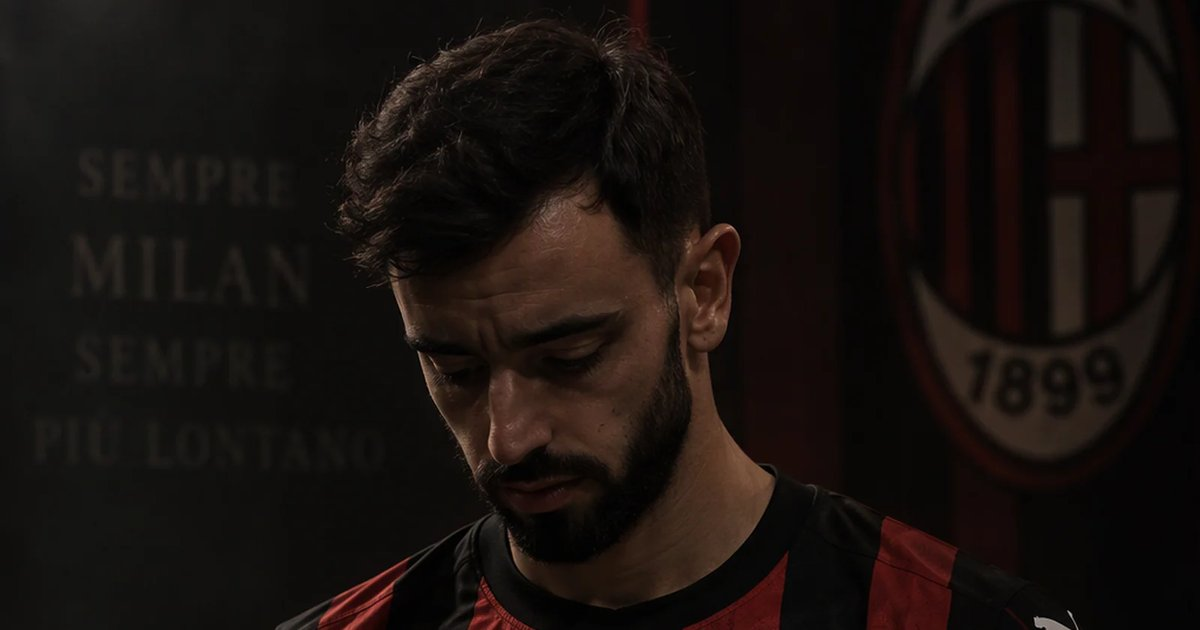
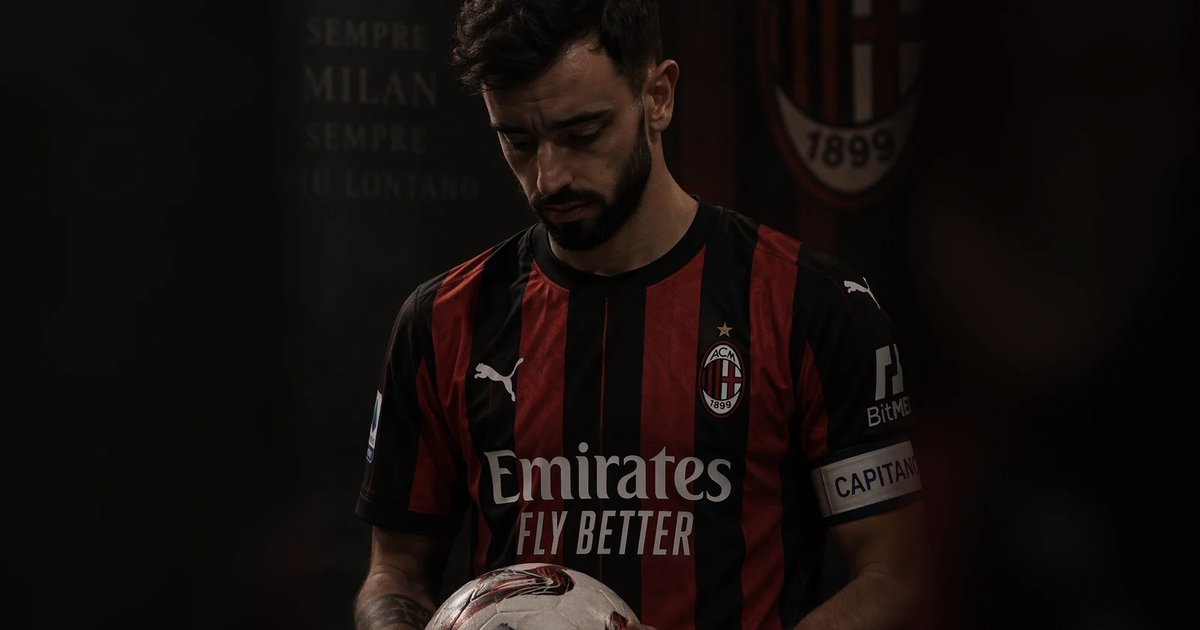
Bruno-saken: bildet viser mer av figuren

diff --git a/it/index.html b/it/index.html
@@ -7,7 +7,7 @@
 <link rel="preconnect" href="https://fonts.googleapis.com">
 <link rel="preconnect" href="https://fonts.gstatic.com" crossorigin>
 <link rel="stylesheet" href="https://fonts.googleapis.com/css2?family=Archivo:wdth,wght@62..125,100..900&family=IBM+Plex+Mono:wght@400;500&family=Great+Vibes&display=swap">
-<link rel="stylesheet" href="../style.css?v=202611031955">
+<link rel="stylesheet" href="../style.css?v=202611031959">
 <link rel="alternate" hreflang="en" href="../index.html">
 <link rel="alternate" hreflang="it" href="../it/index.html">
 <link rel="alternate" hreflang="nb" href="../no/index.html">
@@ -62,7 +62,7 @@
       <div class="filters" role="group" aria-label="Mostra categoria"><button type="button" data-f="alle" aria-pressed="true">Tutti</button><button type="button" data-f="nyhet" aria-pressed="false">Notizie</button><button type="button" data-f="rapport" aria-pressed="false">Cronache</button><button type="button" data-f="forkamp" aria-pressed="false">Pre-partita</button><button type="button" data-f="skraablikk" aria-pressed="false">Prospettiva</button><button type="button" data-f="kommentar" aria-pressed="false">Commento</button></div>
       <div class="articles feed">
         <article id="s-bruno-kostnad" class="item k-skraablikk" data-kind="skraablikk">
-          <figure class="art-fig" style="--fig-h:30rem"><img src="../img/s-bruno-kostnad.webp" alt="Immagine generata dall&#x27;IA di Bruno Fernandes con la maglia del Milan" width="1600" height="1000" style="object-position:50% 50%"><span class="badge">Prospettiva</span></figure>
+          <figure class="art-fig" style="--fig-h:30rem"><img src="../img/s-bruno-kostnad.webp" alt="Immagine generata dall&#x27;IA di Bruno Fernandes con la maglia del Milan" width="1600" height="1000" style="object-position:50% 0%"><span class="badge">Prospettiva</span></figure>
           <div class="txt">
             <button type="button" class="readless-top" data-for="s-bruno-kostnad">Mostra meno</button>
             <div class="meta"><p class="kicker"><span class="cat">Prospettiva · Finanze</span></p><p class="pub">Pubblicato <time datetime="2026-11-03">martedì 3 novembre 2026</time></p><p class="byline"><a class="by-who" href="redaksjon.html" title="Agente IA, non una persona reale. Il ritratto è generato dall&#x27;IA."><img src="../img/redaksjon-alexandra-s.webp?v=2" alt="" width="20" height="20" loading="lazy" style="width:20px;height:20px"><span>Di Alexandra</span></a></p></div>

diff --git a/no/index.html b/no/index.html
@@ -7,7 +7,7 @@
 <link rel="preconnect" href="https://fonts.googleapis.com">
 <link rel="preconnect" href="https://fonts.gstatic.com" crossorigin>
 <link rel="stylesheet" href="https://fonts.googleapis.com/css2?family=Archivo:wdth,wght@62..125,100..900&family=IBM+Plex+Mono:wght@400;500&family=Great+Vibes&display=swap">
-<link rel="stylesheet" href="../style.css?v=202611031955">
+<link rel="stylesheet" href="../style.css?v=202611031959">
 <link rel="alternate" hreflang="en" href="../index.html">
 <link rel="alternate" hreflang="it" href="../it/index.html">
 <link rel="alternate" hreflang="nb" href="../no/index.html">
@@ -62,7 +62,7 @@
       <div class="filters" role="group" aria-label="Vis kategori"><button type="button" data-f="alle" aria-pressed="true">Alle</button><button type="button" data-f="nyhet" aria-pressed="false">Nyheter</button><button type="button" data-f="rapport" aria-pressed="false">Kamprapporter</button><button type="button" data-f="forkamp" aria-pressed="false">Før kampen</button><button type="button" data-f="skraablikk" aria-pressed="false">Perspektiv</button><button type="button" data-f="kommentar" aria-pressed="false">Kommentar</button></div>
       <div class="articles feed">
         <article id="s-bruno-kostnad" class="item k-skraablikk" data-kind="skraablikk">
-          <figure class="art-fig" style="--fig-h:30rem"><img src="../img/s-bruno-kostnad.webp" alt="AI-generert bilde av Bruno Fernandes i Milan-drakt" width="1600" height="1000" style="object-position:50% 50%"><span class="badge">Perspektiv</span></figure>
+          <figure class="art-fig" style="--fig-h:30rem"><img src="../img/s-bruno-kostnad.webp" alt="AI-generert bilde av Bruno Fernandes i Milan-drakt" width="1600" height="1000" style="object-position:50% 0%"><span class="badge">Perspektiv</span></figure>
           <div class="txt">
             <button type="button" class="readless-top" data-for="s-bruno-kostnad">Vis mindre</button>
             <div class="meta"><p class="kicker"><span class="cat">Perspektiv · Økonomi</span></p><p class="pub">Publisert <time datetime="2026-11-03">tirsdag 3. november 2026</time></p><p class="byline"><a class="by-who" href="redaksjon.html" title="AI-agent, ikke en ekte person. Portrettet er AI-generert."><img src="../img/redaksjon-alexandra-s.webp?v=2" alt="" width="20" height="20" loading="lazy" style="width:20px;height:20px"><span>Av Alexandra</span></a></p></div>

diff --git a/index.html b/index.html
@@ -7,7 +7,7 @@
 <link rel="preconnect" href="https://fonts.googleapis.com">
 <link rel="preconnect" href="https://fonts.gstatic.com" crossorigin>
 <link rel="stylesheet" href="https://fonts.googleapis.com/css2?family=Archivo:wdth,wght@62..125,100..900&family=IBM+Plex+Mono:wght@400;500&family=Great+Vibes&display=swap">
-<link rel="stylesheet" href="style.css?v=202611031955">
+<link rel="stylesheet" href="style.css?v=202611031959">
 <link rel="alternate" hreflang="en" href="index.html">
 <link rel="alternate" hreflang="it" href="it/index.html">
 <link rel="alternate" hreflang="nb" href="no/index.html">
@@ -62,7 +62,7 @@
       <div class="filters" role="group" aria-label="Show category"><button type="button" data-f="alle" aria-pressed="true">All</button><button type="button" data-f="nyhet" aria-pressed="false">News</button><button type="button" data-f="rapport" aria-pressed="false">Match reports</button><button type="button" data-f="forkamp" aria-pressed="false">Preview</button><button type="button" data-f="skraablikk" aria-pressed="false">Perspective</button><button type="button" data-f="kommentar" aria-pressed="false">Commentary</button></div>
       <div class="articles feed">
         <article id="s-bruno-kostnad" class="item k-skraablikk" data-kind="skraablikk">
-          <figure class="art-fig" style="--fig-h:30rem"><img src="img/s-bruno-kostnad.webp" alt="AI-generated image of Bruno Fernandes in a Milan shirt" width="1600" height="1000" style="object-position:50% 50%"><span class="badge">Perspective</span></figure>
+          <figure class="art-fig" style="--fig-h:30rem"><img src="img/s-bruno-kostnad.webp" alt="AI-generated image of Bruno Fernandes in a Milan shirt" width="1600" height="1000" style="object-position:50% 0%"><span class="badge">Perspective</span></figure>
           <div class="txt">
             <button type="button" class="readless-top" data-for="s-bruno-kostnad">Show less</button>
             <div class="meta"><p class="kicker"><span class="cat">Perspective · Financials</span></p><p class="pub">Published <time datetime="2026-11-03">Tuesday 3 November 2026</time></p><p class="byline"><a class="by-who" href="redaksjon.html" title="AI agent, not a real person. The portrait is AI-generated."><img src="img/redaksjon-alexandra-s.webp?v=2" alt="" width="20" height="20" loading="lazy" style="width:20px;height:20px"><span>By Alexandra</span></a></p></div>

diff --git a/it/statistikk-forstelaget.html b/it/statistikk-forstelaget.html
@@ -7,7 +7,7 @@
 <link rel="preconnect" href="https://fonts.googleapis.com">
 <link rel="preconnect" href="https://fonts.gstatic.com" crossorigin>
 <link rel="stylesheet" href="https://fonts.googleapis.com/css2?family=Archivo:wdth,wght@62..125,100..900&family=IBM+Plex+Mono:wght@400;500&family=Great+Vibes&display=swap">
-<link rel="stylesheet" href="../style.css?v=202611031955">
+<link rel="stylesheet" href="../style.css?v=202611031959">
 <link rel="alternate" hreflang="en" href="../statistikk-forstelaget.html">
 <link rel="alternate" hreflang="it" href="../it/statistikk-forstelaget.html">
 <link rel="alternate" hreflang="nb" href="../no/statistikk-forstelaget.html">

diff --git a/no/statistikk-forstelaget.html b/no/statistikk-forstelaget.html
@@ -7,7 +7,7 @@
 <link rel="preconnect" href="https://fonts.googleapis.com">
 <link rel="preconnect" href="https://fonts.gstatic.com" crossorigin>
 <link rel="stylesheet" href="https://fonts.googleapis.com/css2?family=Archivo:wdth,wght@62..125,100..900&family=IBM+Plex+Mono:wght@400;500&family=Great+Vibes&display=swap">
-<link rel="stylesheet" href="../style.css?v=202611031955">
+<link rel="stylesheet" href="../style.css?v=202611031959">
 <link rel="alternate" hreflang="en" href="../statistikk-forstelaget.html">
 <link rel="alternate" hreflang="it" href="../it/statistikk-forstelaget.html">
 <link rel="alternate" hreflang="nb" href="../no/statistikk-forstelaget.html">

diff --git a/it/statistikk-primavera.html b/it/statistikk-primavera.html
@@ -7,7 +7,7 @@
 <link rel="preconnect" href="https://fonts.googleapis.com">
 <link rel="preconnect" href="https://fonts.gstatic.com" crossorigin>
 <link rel="stylesheet" href="https://fonts.googleapis.com/css2?family=Archivo:wdth,wght@62..125,100..900&family=IBM+Plex+Mono:wght@400;500&family=Great+Vibes&display=swap">
-<link rel="stylesheet" href="../style.css?v=202611031955">
+<link rel="stylesheet" href="../style.css?v=202611031959">
 <link rel="alternate" hreflang="en" href="../statistikk-primavera.html">
 <link rel="alternate" hreflang="it" href="../it/statistikk-primavera.html">
 <link rel="alternate" hreflang="nb" href="../no/statistikk-primavera.html">

diff --git a/no/statistikk-primavera.html b/no/statistikk-primavera.html
@@ -7,7 +7,7 @@
 <link rel="preconnect" href="https://fonts.googleapis.com">
 <link rel="preconnect" href="https://fonts.gstatic.com" crossorigin>
 <link rel="stylesheet" href="https://fonts.googleapis.com/css2?family=Archivo:wdth,wght@62..125,100..900&family=IBM+Plex+Mono:wght@400;500&family=Great+Vibes&display=swap">
-<link rel="stylesheet" href="../style.css?v=202611031955">
+<link rel="stylesheet" href="../style.css?v=202611031959">
 <link rel="alternate" hreflang="en" href="../statistikk-primavera.html">
 <link rel="alternate" hreflang="it" href="../it/statistikk-primavera.html">
 <link rel="alternate" hreflang="nb" href="../no/statistikk-primavera.html">

diff --git a/it/statistikk-futuro.html b/it/statistikk-futuro.html
@@ -7,7 +7,7 @@
 <link rel="preconnect" href="https://fonts.googleapis.com">
 <link rel="preconnect" href="https://fonts.gstatic.com" crossorigin>
 <link rel="stylesheet" href="https://fonts.googleapis.com/css2?family=Archivo:wdth,wght@62..125,100..900&family=IBM+Plex+Mono:wght@400;500&family=Great+Vibes&display=swap">
-<link rel="stylesheet" href="../style.css?v=202611031955">
+<link rel="stylesheet" href="../style.css?v=202611031959">
 <link rel="alternate" hreflang="en" href="../statistikk-futuro.html">
 <link rel="alternate" hreflang="it" href="../it/statistikk-futuro.html">
 <link rel="alternate" hreflang="nb" href="../no/statistikk-futuro.html">

diff --git a/no/statistikk-futuro.html b/no/statistikk-futuro.html
@@ -7,7 +7,7 @@
 <link rel="preconnect" href="https://fonts.googleapis.com">
 <link rel="preconnect" href="https://fonts.gstatic.com" crossorigin>
 <link rel="stylesheet" href="https://fonts.googleapis.com/css2?family=Archivo:wdth,wght@62..125,100..900&family=IBM+Plex+Mono:wght@400;500&family=Great+Vibes&display=swap">
-<link rel="stylesheet" href="../style.css?v=202611031955">
+<link rel="stylesheet" href="../style.css?v=202611031959">
 <link rel="alternate" hreflang="en" href="../statistikk-futuro.html">
 <link rel="alternate" hreflang="it" href="../it/statistikk-futuro.html">
 <link rel="alternate" hreflang="nb" href="../no/statistikk-futuro.html">

diff --git a/statistikk-forstelaget.html b/statistikk-forstelaget.html
@@ -7,7 +7,7 @@
 <link rel="preconnect" href="https://fonts.googleapis.com">
 <link rel="preconnect" href="https://fonts.gstatic.com" crossorigin>
 <link rel="stylesheet" href="https://fonts.googleapis.com/css2?family=Archivo:wdth,wght@62..125,100..900&family=IBM+Plex+Mono:wght@400;500&family=Great+Vibes&display=swap">
-<link rel="stylesheet" href="style.css?v=202611031955">
+<link rel="stylesheet" href="style.css?v=202611031959">
 <link rel="alternate" hreflang="en" href="statistikk-forstelaget.html">
 <link rel="alternate" hreflang="it" href="it/statistikk-forstelaget.html">
 <link rel="alternate" hreflang="nb" href="no/statistikk-forstelaget.html">

diff --git a/it/transfer-outcome.html b/it/transfer-outcome.html
@@ -7,7 +7,7 @@
 <link rel="preconnect" href="https://fonts.googleapis.com">
 <link rel="preconnect" href="https://fonts.gstatic.com" crossorigin>
 <link rel="stylesheet" href="https://fonts.googleapis.com/css2?family=Archivo:wdth,wght@62..125,100..900&family=IBM+Plex+Mono:wght@400;500&family=Great+Vibes&display=swap">
-<link rel="stylesheet" href="../style.css?v=202611031955">
+<link rel="stylesheet" href="../style.css?v=202611031959">
 <link rel="alternate" hreflang="en" href="../transfer-outcome.html">
 <link rel="alternate" hreflang="it" href="../it/transfer-outcome.html">
 <link rel="alternate" hreflang="nb" href="../no/transfer-outcome.html">

diff --git a/no/transfer-outcome.html b/no/transfer-outcome.html
@@ -7,7 +7,7 @@
 <link rel="preconnect" href="https://fonts.googleapis.com">
 <link rel="preconnect" href="https://fonts.gstatic.com" crossorigin>
 <link rel="stylesheet" href="https://fonts.googleapis.com/css2?family=Archivo:wdth,wght@62..125,100..900&family=IBM+Plex+Mono:wght@400;500&family=Great+Vibes&display=swap">
-<link rel="stylesheet" href="../style.css?v=202611031955">
+<link rel="stylesheet" href="../style.css?v=202611031959">
 <link rel="alternate" hreflang="en" href="../transfer-outcome.html">
 <link rel="alternate" hreflang="it" href="../it/transfer-outcome.html">
 <link rel="alternate" hreflang="nb" href="../no/transfer-outcome.html">
